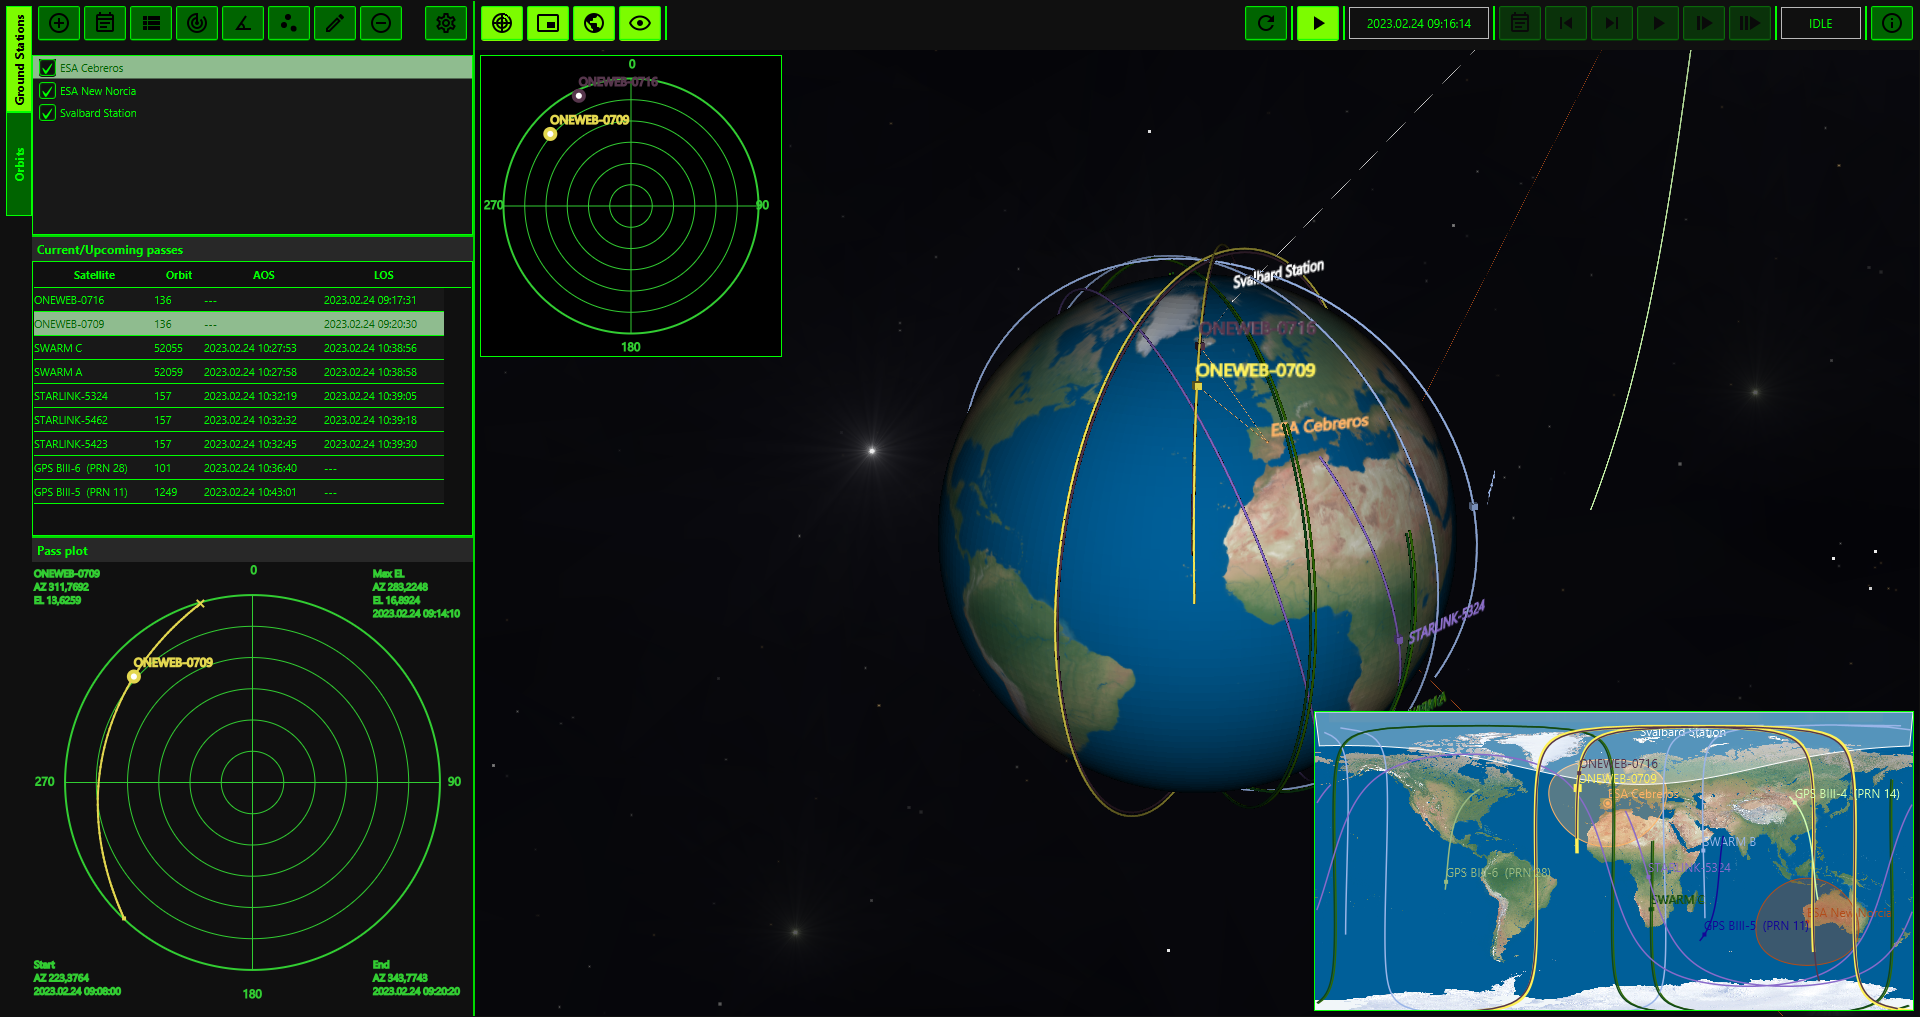
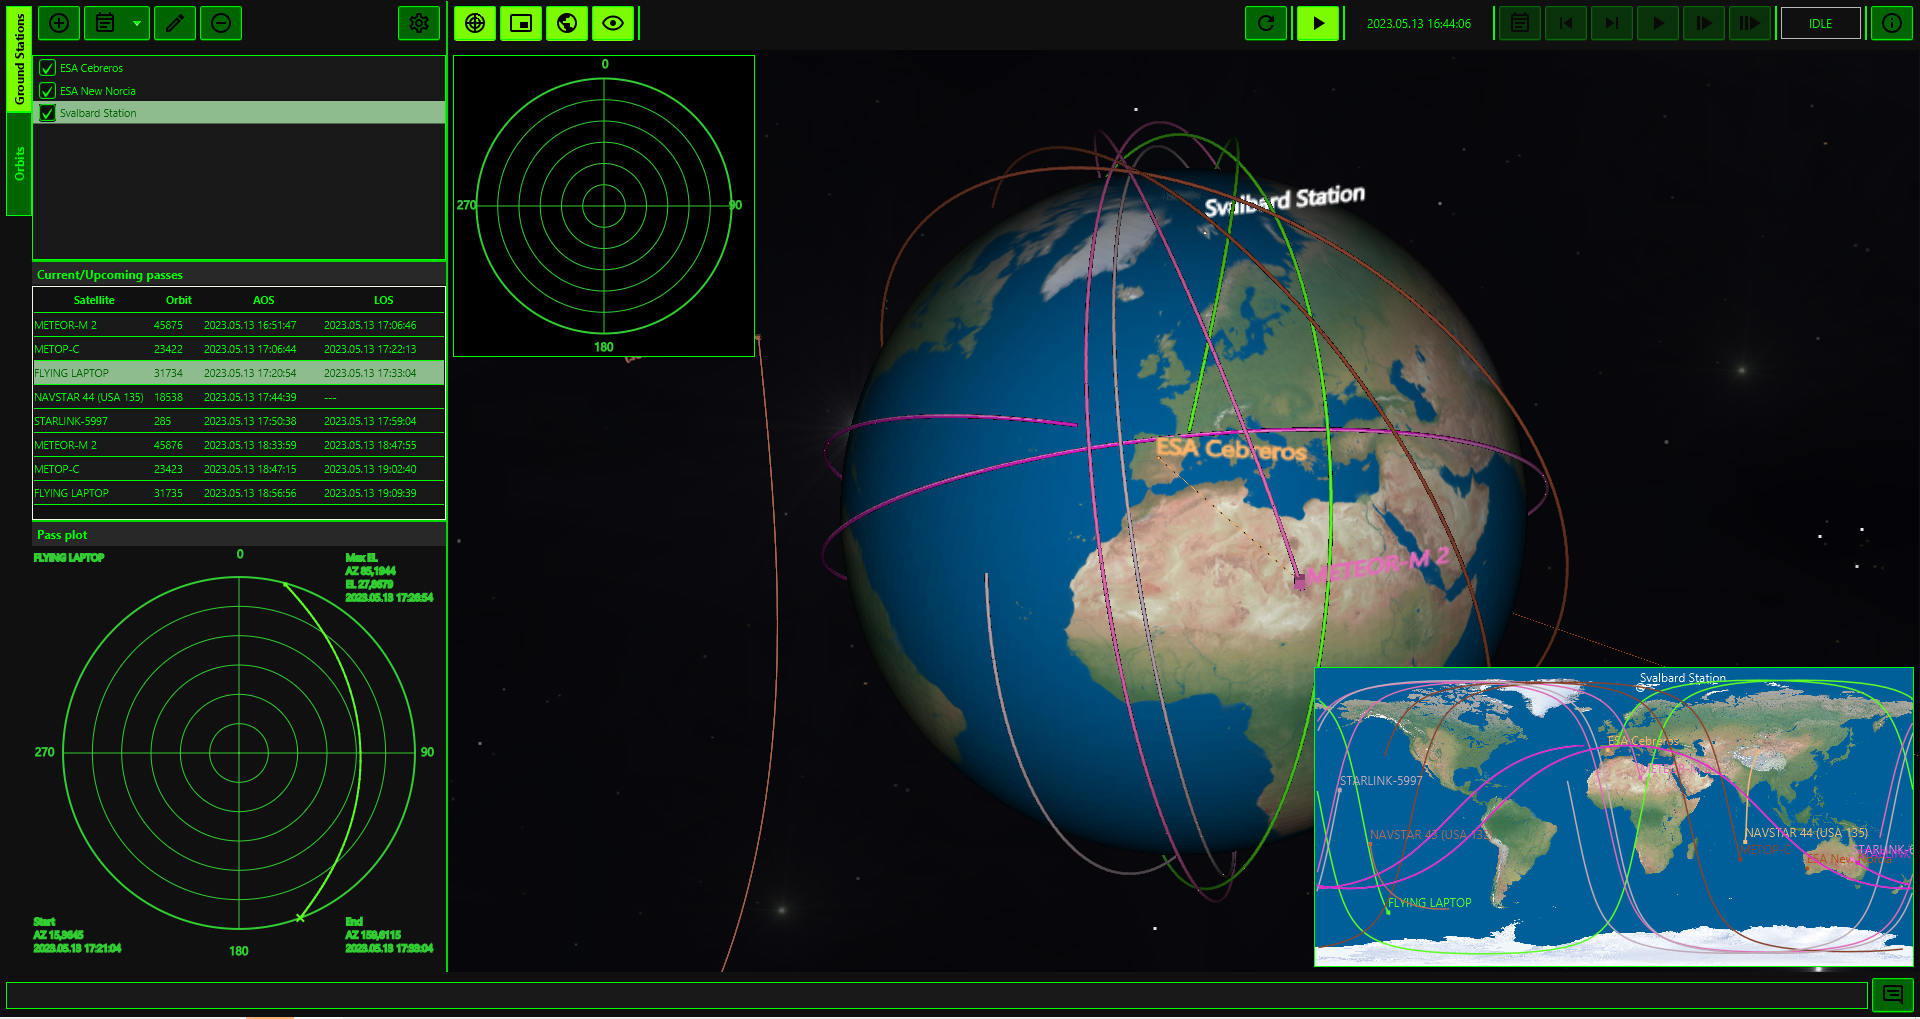
Version 1.1.0 release

diff --git a/src/main/java/eu/dariolucia/drorbiteex/application/DrOrbiteex.java b/src/main/java/eu/dariolucia/drorbiteex/application/DrOrbiteex.java
@@ -42,7 +42,7 @@ import java.util.Optional;
 public class DrOrbiteex extends Application {
 
     public static final String APPLICATION_NAME = "Dr. Orbiteex";
-    public static final String VERSION = "1.1.0-beta";
+    public static final String VERSION = "1.1.0";
 
     private static final String DEFAULT_CONFIG_FOLDER = System.getProperty("user.home") + File.separator + "drorbiteex";
     private static final String DEFAULT_ORBIT_CONFIG_FILE_NAME = "orbits.xml";

diff --git a/README.md b/README.md
@@ -25,6 +25,9 @@ CCSDS Simple Schedule file (https://public.ccsds.org/Pubs/902x1b1c1.pdf)
 ![AND](img/drorbiteex1.png "Dr. Orbiteex main window")
 ![AND](img/drorbiteex2.png "Dr. Orbiteex map view")
 ![AND](img/drorbiteex3.png "Dr. Orbiteex sky coverage")
+![AND](img/drorbiteex4.png "Dr. Orbiteex orbit error analysis")
+
+The main development is completed (latest version: 1.1.0). Please report bug and feature requests using the GitHub issue tracker.
 
 ## Getting started
 Make sure you have Java >= 11 and Apache Maven installed.
